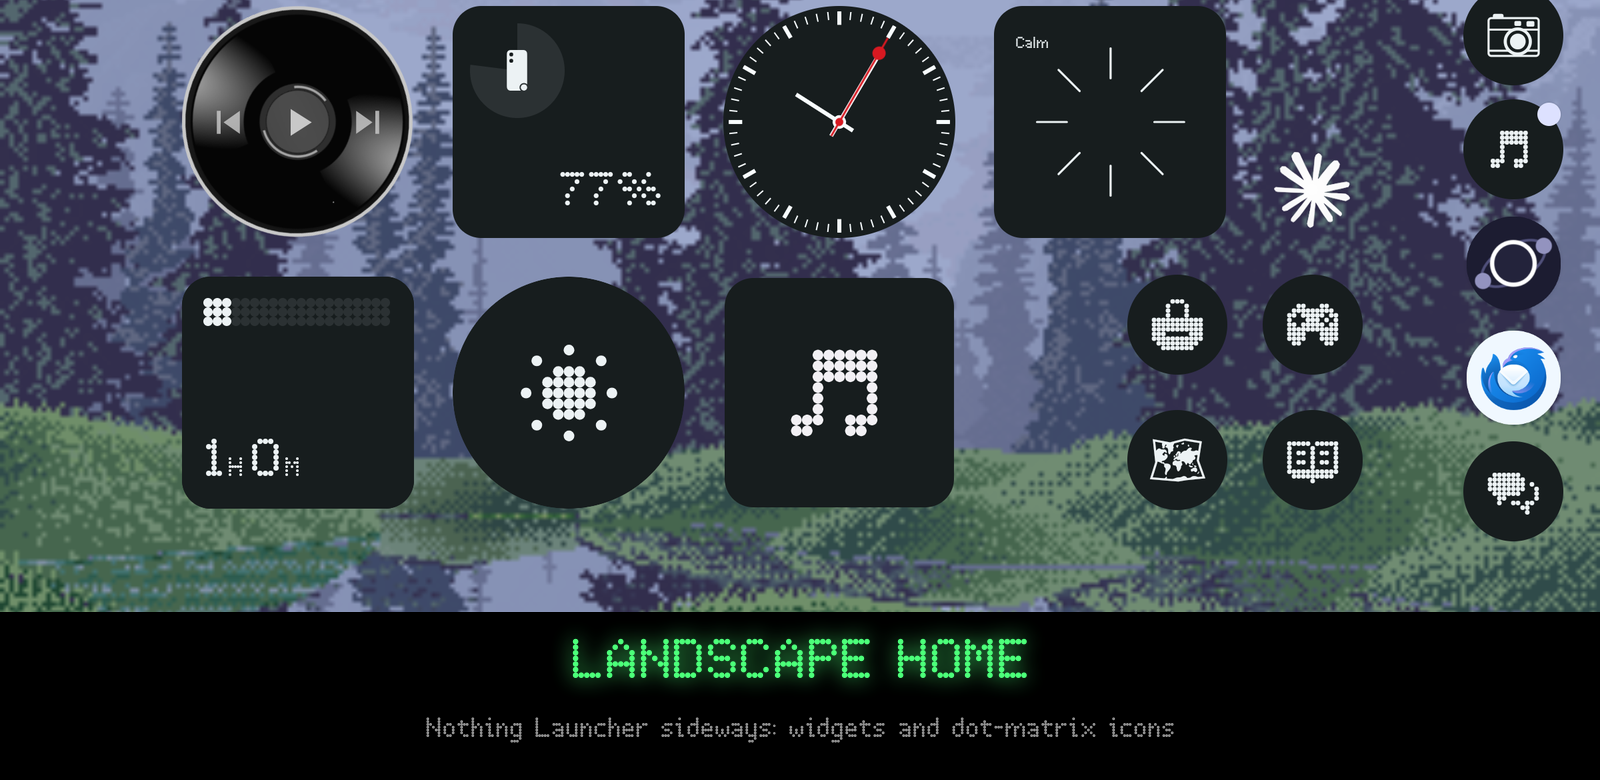
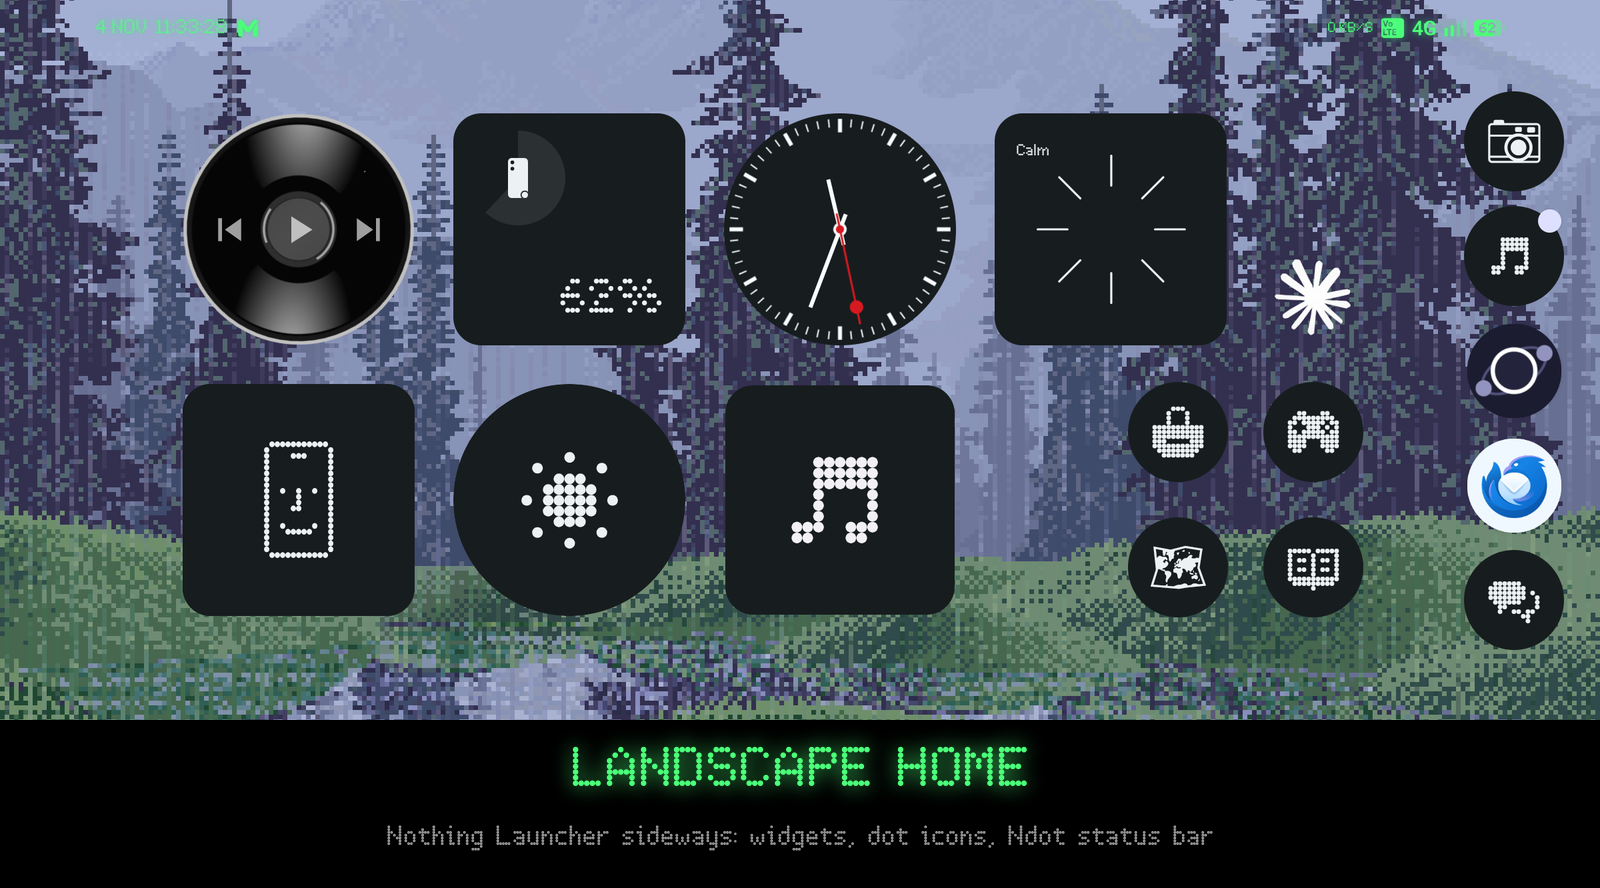
README: clean home pictures and normal-folder app drawer in both orientations
Claude-Session: https://claude.ai/code/session_012LJu7snW4PtvMvVZ1E4JxQ

diff --git a/README.md b/README.md
@@ -24,6 +24,9 @@ screen, game controller support, live wallpaper sounds and more.
   <img src="docs/images/drawer-landscape.png" alt="App drawer folders with dot-matrix covers" width="100%">
 </p>
 <p align="center">
+  <img src="docs/images/drawer-folders-landscape.png" alt="App drawer with normal folders" width="100%">
+</p>
+<p align="center">
   <img src="docs/images/lockscreen-landscape.png" alt="Landscape lock screen" width="100%">
 </p>
 <p align="center">
@@ -31,9 +34,10 @@ screen, game controller support, live wallpaper sounds and more.
 </p>
 <p align="center">
   <img src="docs/images/home-portrait.png" alt="Portrait home screen" width="40%">
+  <img src="docs/images/drawer-folders-portrait.png" alt="Portrait app drawer with normal folders" width="40%">
 </p>
 
-<sub>Screenshots from the test phone's debug reports, alpha builds. Captions use Nothing's NDot
+<sub>Screenshots from the test phone, alpha builds. Captions use Nothing's NDot
 77 JP Extended as drawn on the phone; the font itself is not part of this repository.</sub>
 
 Each section below opens when tapped.
@@ -57,10 +61,8 @@ Each section below opens when tapped.
 - **PS2-style interface sounds:** waiting for recordings of the cursor, confirm, back, error and
   memory-card sounds.
 - **Nothing Dot Matrix Display:** the engine that replaces the emoji-cover beta (see Roadmap).
-- **README pictures still to come:** the app drawer in portrait (emoji covers), and the app
-  drawer with normal folders (app icons, no emoji) in both landscape and portrait. None of the
-  debug reports has them. The current pictures are from alpha debug reports and will be retaken
-  for the public release.
+- **README pictures still to come:** the app drawer in portrait with emoji covers. The current
+  pictures come from alpha builds and will be retaken for the public release.
 
 **Fixed recently**
 - 0.52.4: controller menus are Nothing's own, as on a long-press.
